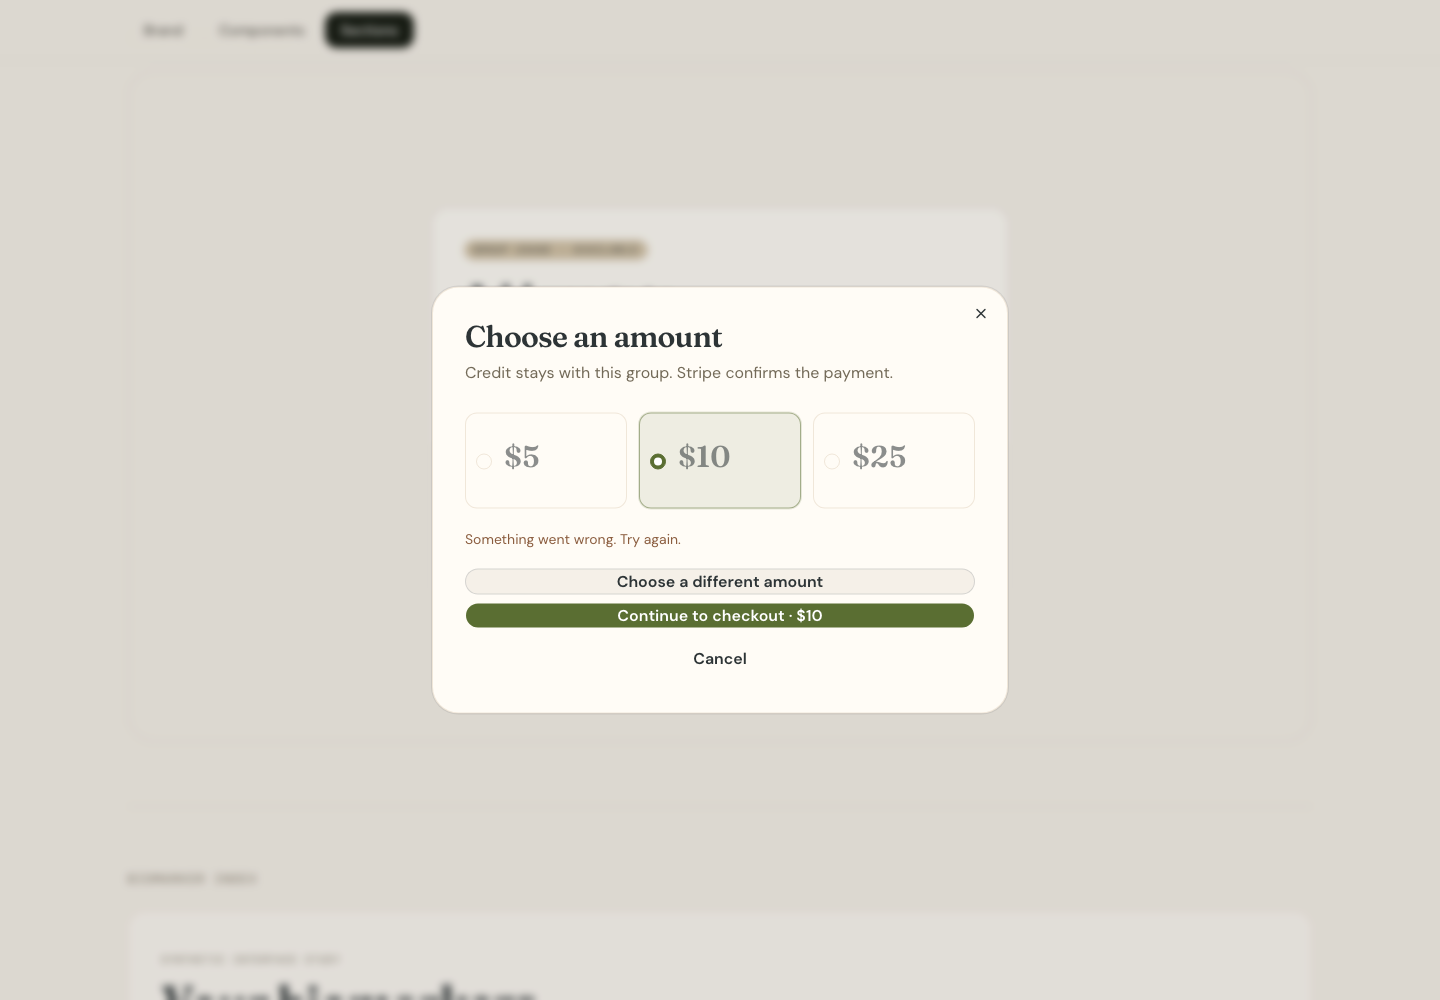
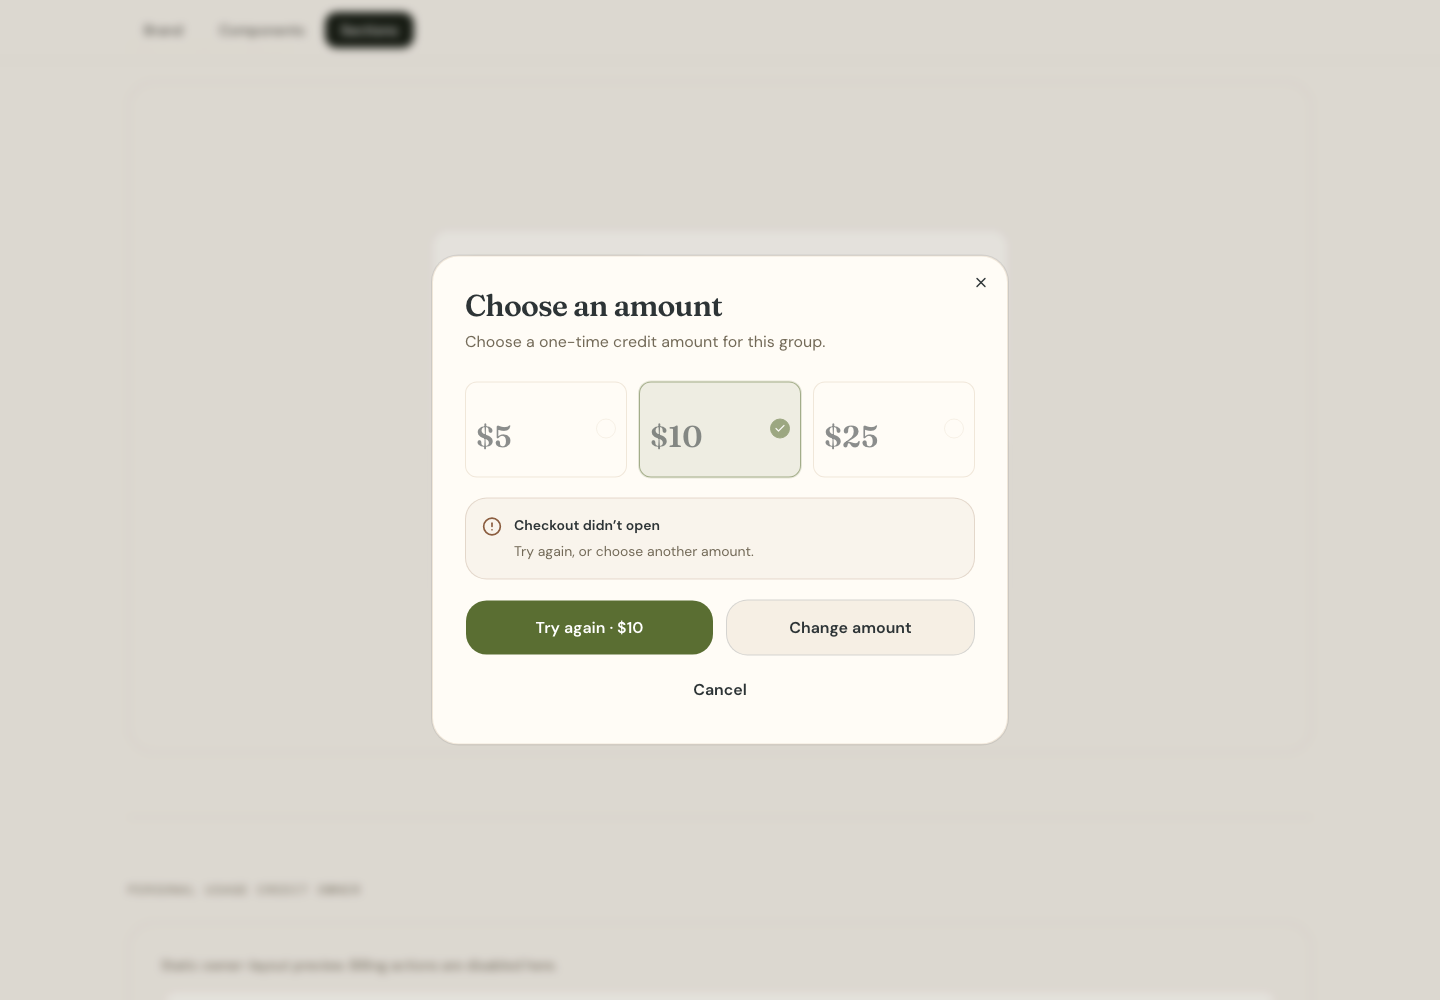
docs(frontend): refresh usage credit design proof

diff --git a/apps/web/app/design/components-content.tsx b/apps/web/app/design/components-content.tsx
@@ -546,7 +546,7 @@ export function ComponentsContent() {
         <Section title="Usage credit">
           <p className="max-w-2xl text-sm leading-6 text-muted-foreground">
             Group funding uses one shared card and the standard usage-credit
-            amount dialog. The live flow keeps payment confirmation in Stripe.
+            amount dialog. Credit is added only after payment is complete.
           </p>
           <div
             className="max-w-xl"
